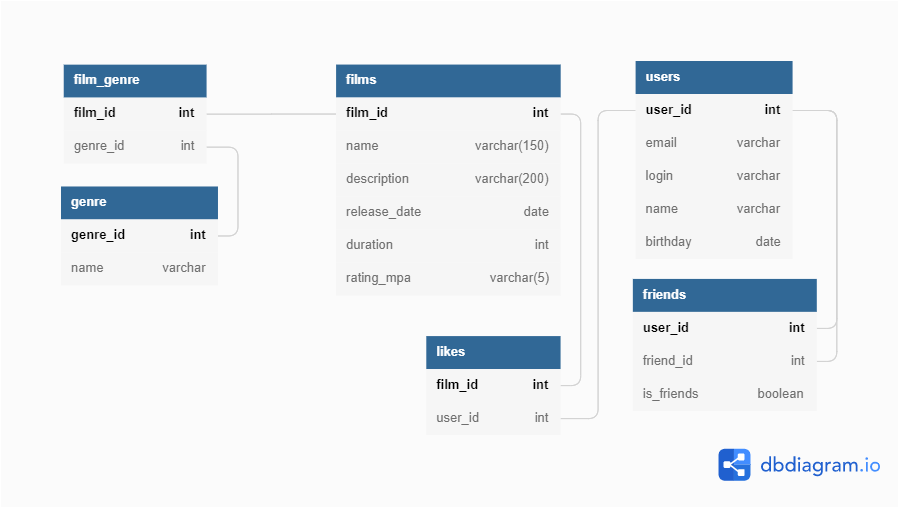
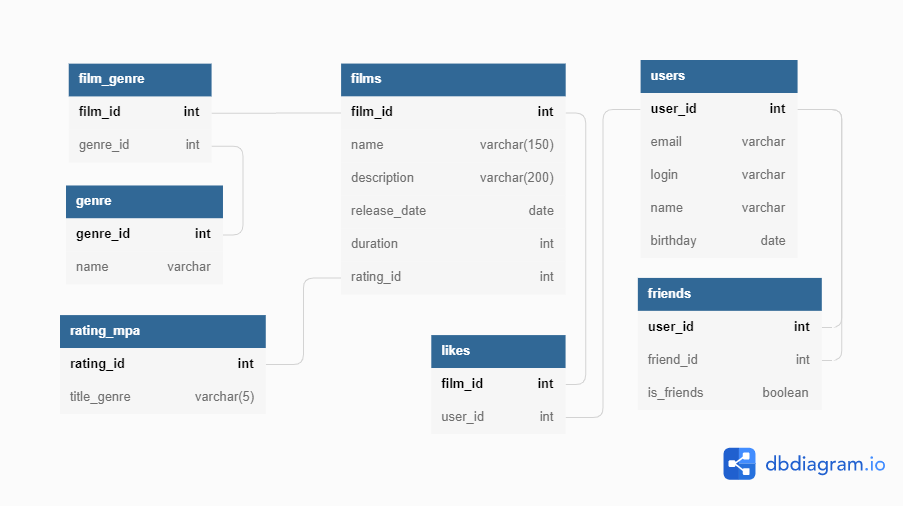
-refactor. В диаграмму добавил таблицу rating_mpa

diff --git a/README.md b/README.md
@@ -45,7 +45,7 @@ WHERE users.user_id in (
 SELECT friend_id
 FROM friends 
 WHERE friends.user_id = 1
-AND is_friends = 1)
+AND friends.is_friends = 1)
 AND users.user_id in (
 SELECT friends.friend_id
 FROM friends 
